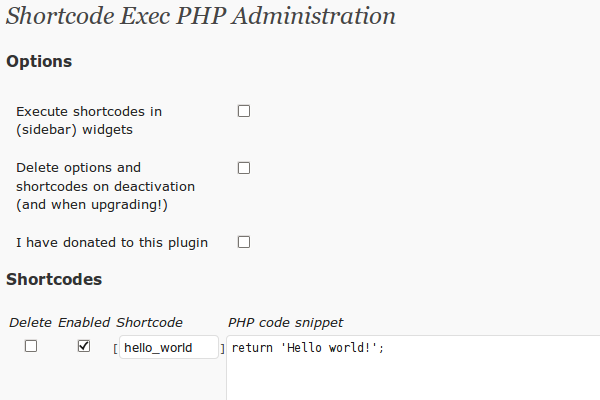
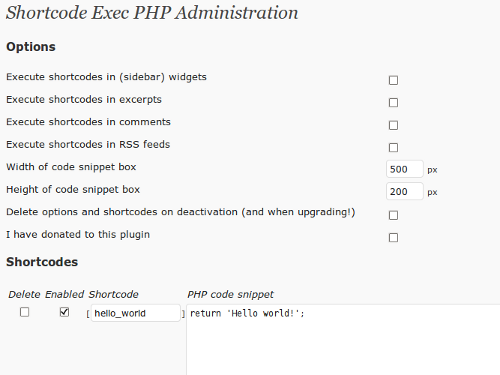
0.2 release
git-svn-id: https://plugins.svn.wordpress.org/shortcode-exec-php/trunk@221677 b8457f37-d9ea-0310-8a92-e5e31aec5664

diff --git a/shortcode-exec-php.css b/shortcode-exec-php.css
@@ -33,39 +33,63 @@
 	margin: 1em 0 0.5em 0;
 }
 
+/* Option titles */
+#option_table th {
+	width: 500px;
+	padding: 0px;
+}
+
 /* Option checkboxes */
 #option_table input[type="checkbox"] {
-	margin: 5px 1px;
+	margin: 0;
+}
+
+/* Option table cell with input */
+#option_table .scep_cell_input {
+	padding: 0 6px 4px;
+}
+
+/ * Option inputs */
+#option_table input[type="text"] {
+	width: 50px;
+}
+
+/* Code box height */
+#scep_option_width, #scep_option_height {
+	width: 50px;
 }
 
 /* Shortcode configuration */
 .scep_table_center {
-	text-align: center;
+	text-align: center !important;
 }
 
+/* Shortcode table headers */
 #shortcode_table th {
 	font-style: italic;
 	padding: 3px !important;
 	width: auto;
 }
 
+/* Shortcode table cells */
 #shortcode_table td {
 	padding: 0;
 }
 
+/* Shortcode table checkboxes */
 #shortcode_table input[type="checkbox"] {
 	margin: 5px 1px;
 }
 
+/* Shortcode table inputs */
 #shortcode_table input[type="text"] {
-	width: 100px;
+	width: 120px;
 }
 
+/* Shortcode table code snippets */
 #shortcode_table textarea {
 	font-family: monospace;
 	font-size: 12px;
-	height: 200px;
-	width: 500px;
 }
 
 /* Shortcode examples */
@@ -84,4 +108,3 @@
 .example_explanation {
 	font-family: monospace;
 }
-

diff --git a/shortcode-exec-php-class.php b/shortcode-exec-php-class.php
@@ -7,8 +7,14 @@
 
 // Define constants
 define('c_scep_option_widget', 'scep_widget');
+define('c_scep_option_excerpt', 'scep_excerpt');
+define('c_scep_option_comment', 'scep_comment');
+define('c_scep_option_rss', 'scep_rss');
 define('c_scep_option_cleanup', 'scep_cleanup');
 define('c_scep_option_donated', 'scep_donated');
+define('c_scep_option_codewidth', 'scep_codewidth');
+define('c_scep_option_codeheight', 'scep_codeheight');
+
 define('c_scep_option_names', 'scep_names');
 define('c_scep_option_enabled', 'scep_enabled_');
 define('c_scep_option_phpcode', 'scep_phpcode_');
@@ -45,6 +51,27 @@ if (!class_exists('WPShortcodeExecPHP')) {
 			if (get_option(c_scep_option_widget))
 				add_filter('widget_text', 'do_shortcode');
 
+			// Enable shortcodes for excerpts
+			if (get_option(c_scep_option_excerpt))
+			{
+				add_filter('the_excerpt', 'do_shortcode');
+				if (get_option(c_scep_option_comment))
+					add_filter('comment_excerpt', 'do_shortcode');
+			}
+
+			// Enable shortcodes for comments
+			if (get_option(c_scep_option_comment))
+				add_filter('comment_text', 'do_shortcode');
+
+			// Enable shortcodes for RSS
+			if (get_option(c_scep_option_rss)) {
+				add_filter('the_content_rss', 'do_shortcode');
+				if (get_option(c_scep_option_excerpt))
+					add_filter('the_excerpt_rss', 'do_shortcode');
+				if (get_option(c_scep_option_comment))
+					add_filter('comment_text_rss', 'do_shortcode');
+			}
+
 			// Wire shortcode handlers
 			$name = get_option(c_scep_option_names);
 			for ($i = 0; $i < count($name); $i++)
@@ -70,6 +97,11 @@ if (!class_exists('WPShortcodeExecPHP')) {
 
 		// Handle plugin activation
 		function Activate() {
+			if (!get_option(c_scep_option_codewidth))
+				update_option(c_scep_option_codewidth,  500);
+			if (!get_option(c_scep_option_codeheight))
+				update_option(c_scep_option_codeheight, 200);
+
 			if (!get_option(c_scep_option_names)) {
 				// Define example shortcode
 				$name = array();
@@ -85,6 +117,11 @@ if (!class_exists('WPShortcodeExecPHP')) {
 			// Cleanup if requested
 			if (get_option(c_scep_option_cleanup)) {
 				delete_option(c_scep_option_widget);
+				delete_option(c_scep_option_excerpt);
+				delete_option(c_scep_option_comment);
+				delete_option(c_scep_option_rss);
+				delete_option(c_scep_option_codewidth);
+				delete_option(c_scep_option_codeheight);
 				delete_option(c_scep_option_cleanup);
 				delete_option(c_scep_option_donated);
 
@@ -119,9 +156,14 @@ if (!class_exists('WPShortcodeExecPHP')) {
 
 				if (current_user_can('manage_options')) {
 					// Update settings
-					update_option(c_scep_option_widget,  $_POST[c_scep_option_widget]);
-					update_option(c_scep_option_cleanup, $_POST[c_scep_option_cleanup]);
-					update_option(c_scep_option_donated, $_POST[c_scep_option_donated]);
+					update_option(c_scep_option_widget,	 $_POST[c_scep_option_widget]);
+					update_option(c_scep_option_excerpt,	$_POST[c_scep_option_excerpt]);
+					update_option(c_scep_option_comment,	$_POST[c_scep_option_comment]);
+					update_option(c_scep_option_rss,		$_POST[c_scep_option_rss]);
+					update_option(c_scep_option_codewidth,  $_POST[c_scep_option_codewidth]);
+					update_option(c_scep_option_codeheight, $_POST[c_scep_option_codeheight]);
+					update_option(c_scep_option_cleanup,	$_POST[c_scep_option_cleanup]);
+					update_option(c_scep_option_donated,	$_POST[c_scep_option_donated]);
 
 					echo '<div id="message" class="updated fade"><p><strong>' . __('Settings updated', c_scep_text_domain) . '</strong></p></div>';
 
@@ -186,8 +228,18 @@ if (!class_exists('WPShortcodeExecPHP')) {
 
 			// Get current settings
 			$scep_widget  = get_option(c_scep_option_widget)  ? 'checked="checked"' : '';
+			$scep_excerpt = get_option(c_scep_option_excerpt) ? 'checked="checked"' : '';
+			$scep_comment = get_option(c_scep_option_comment) ? 'checked="checked"' : '';
+			$scep_rss	 = get_option(c_scep_option_rss)	 ? 'checked="checked"' : '';
 			$scep_cleanup = get_option(c_scep_option_cleanup) ? 'checked="checked"' : '';
 			$scep_donated = get_option(c_scep_option_donated) ? 'checked="checked"' : '';
+			$scep_width   = get_option(c_scep_option_codewidth);
+			$scep_height  = get_option(c_scep_option_codeheight);
+
+			if ($scep_width <= 0)
+				$scep_width = 500;
+			if ($scep_height <= 0)
+				$scep_height = 200;
 ?>
 			<h3><?php _e('Options', c_scep_text_domain); ?></h3>
 			<table id="option_table" class="form-table">
@@ -196,6 +248,38 @@ if (!class_exists('WPShortcodeExecPHP')) {
 				<label for="scep_option_widget"><?php _e('Execute shortcodes in (sidebar) widgets', c_scep_text_domain); ?></label>
 			</th><td>
 				<input id="scep_option_widget" name="<?php echo c_scep_option_widget; ?>" type="checkbox"<?php echo $scep_widget; ?> />
+			</td></tr>
+
+			<tr valign="top"><th scope="row">
+				<label for="scep_option_excerpt"><?php _e('Execute shortcodes in excerpts', c_scep_text_domain); ?></label>
+			</th><td>
+				<input id="scep_option_excerpt" name="<?php echo c_scep_option_excerpt; ?>" type="checkbox"<?php echo $scep_excerpt; ?> />
+			</td></tr>
+
+			<tr valign="top"><th scope="row">
+				<label for="scep_option_comment"><?php _e('Execute shortcodes in comments', c_scep_text_domain); ?></label>
+			</th><td>
+				<input id="scep_option_comment" name="<?php echo c_scep_option_comment; ?>" type="checkbox"<?php echo $scep_comment; ?> />
+			</td></tr>
+
+			<tr valign="top"><th scope="row">
+				<label for="scep_option_rss"><?php _e('Execute shortcodes in RSS feeds', c_scep_text_domain); ?></label>
+			</th><td>
+				<input id="scep_option_rss" name="<?php echo c_scep_option_rss; ?>" type="checkbox"<?php echo $scep_rss; ?> />
+			</td></tr>
+
+			<tr valign="top"><th scope="row">
+				<label for="scep_option_width"><?php _e('Width of code snippet box', c_scep_text_domain); ?></label>
+			</th><td class="scep_cell_input">
+				<input id="scep_option_width" name="<?php echo c_scep_option_codewidth; ?>" type="text" value="<?php echo $scep_width; ?>" />
+				<span>px</span>
+			</td></tr>
+
+			<tr valign="top"><th scope="row">
+				<label for="scep_option_height"><?php _e('Height of code snippet box', c_scep_text_domain); ?></label>
+			</th><td class="scep_cell_input">
+				<input id="scep_option_height" name="<?php echo c_scep_option_codeheight; ?>" type="text" value="<?php echo $scep_height; ?>" />
+				<span>px</span>
 			</td></tr>
 
 			<tr valign="top"><th scope="row">
@@ -231,15 +315,17 @@ if (!class_exists('WPShortcodeExecPHP')) {
 				echo '<td class="scep_table_center"><input name="' . c_scep_form_delete . $i . '" type="checkbox"></td>';
 				echo '<td class="scep_table_center"><input name="' . c_scep_form_enabled . $i . '" type="checkbox" ' . ($enabled ? 'checked="checked"' : '') . '></td>';
 				echo '<td>[<input name="' . c_scep_form_shortcode . $i . '" type="text" value="' . $name[$i] . '">]</td>';
-				echo '<td><textarea name="' . c_scep_form_phpcode . $i . '">' . htmlentities($code, ENT_NOQUOTES) . '</textarea></td>';
+				echo '<td><textarea name="' . c_scep_form_phpcode . $i . '" style="width:' . $scep_width . 'px;height:' . $scep_height . 'px;">';
+				echo htmlentities($code, ENT_NOQUOTES) . '</textarea></td>';
 				echo '</tr>';
 			}
 ?>
 			<tr valign="top">
 			<td />
 			<td class="scep_table_center"><input name="<?php echo c_scep_form_enabled . '_new'; ?>" type="checkbox" checked="checked"></td>
-			<td><input name="<?php echo c_scep_form_shortcode . '_new'; ?>" type="text" value=""></td>
-			<td><textarea class="scep_table_code" name="<?php echo c_scep_form_phpcode . '_new'; ?>"></textarea></td>
+			<td>[<input name="<?php echo c_scep_form_shortcode . '_new'; ?>" type="text" value="">]</td>
+			<td><textarea class="scep_table_code" name="<?php echo c_scep_form_phpcode . '_new'; ?>" style="width:<?php echo $scep_width; ?>px;height:<?php echo $scep_height; ?>px;" >
+			</textarea></td>
 			</tr>
 			</table>
 

diff --git a/shortcode-exec-php.php b/shortcode-exec-php.php
@@ -3,7 +3,7 @@
 Plugin Name: Shortcode Exec PHP
 Plugin URI: http://blog.bokhorst.biz/3626/computers-en-internet/wordpress-plugin-shortcode-exec-php/
 Description: Execute reusable PHP code in posts, pages and widgets using shortcodes
-Version: 0.1
+Version: 0.2
 Author: Marcel Bokhorst
 Author URI: http://blog.bokhorst.biz/about/
 */
